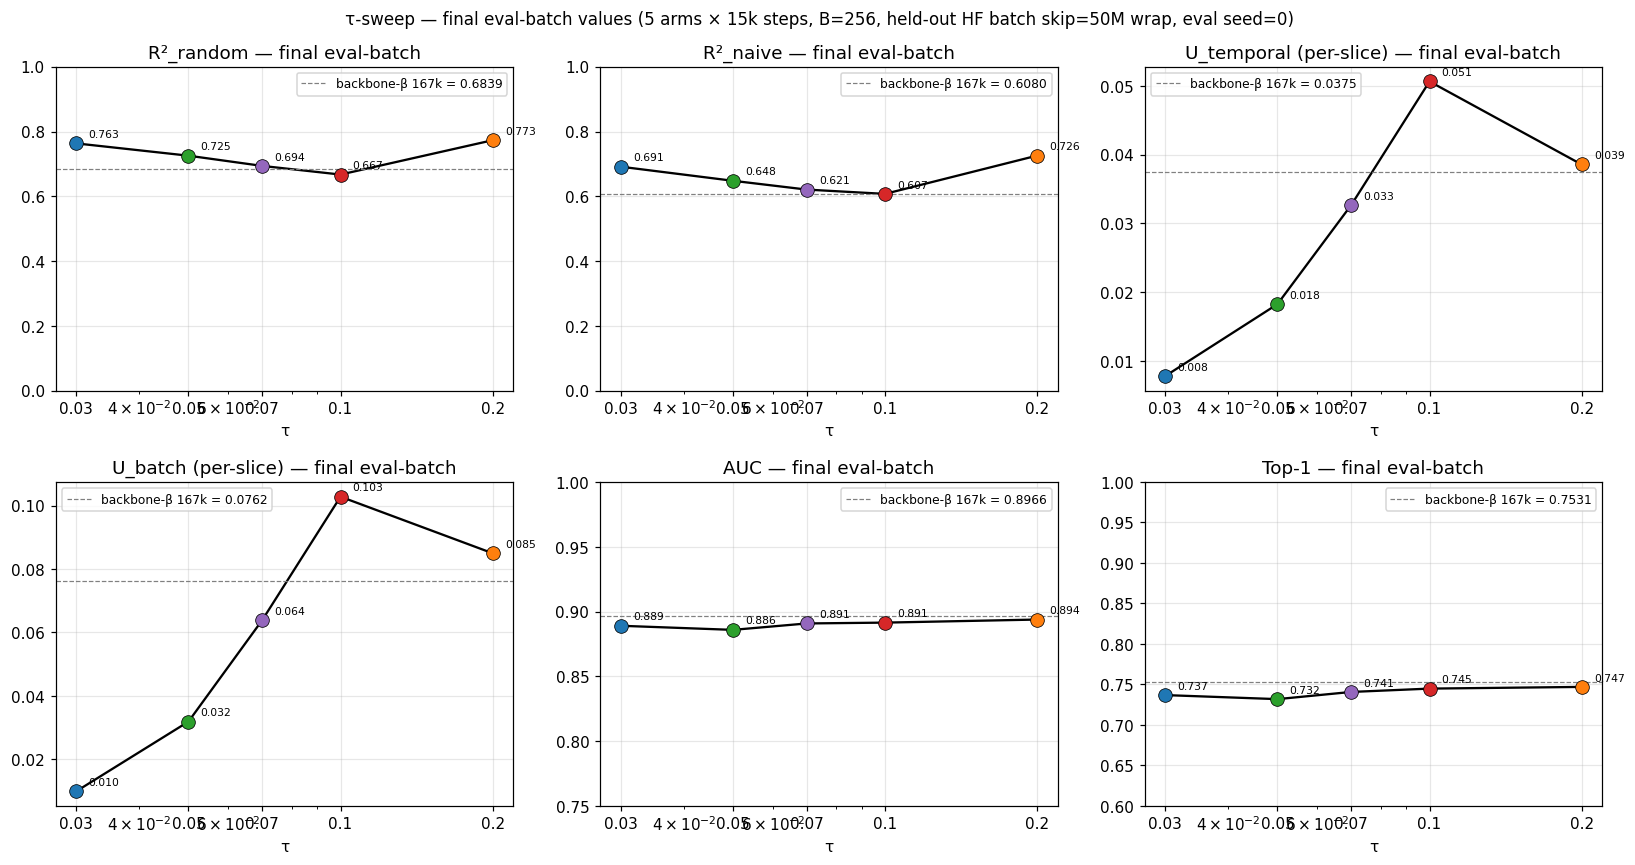
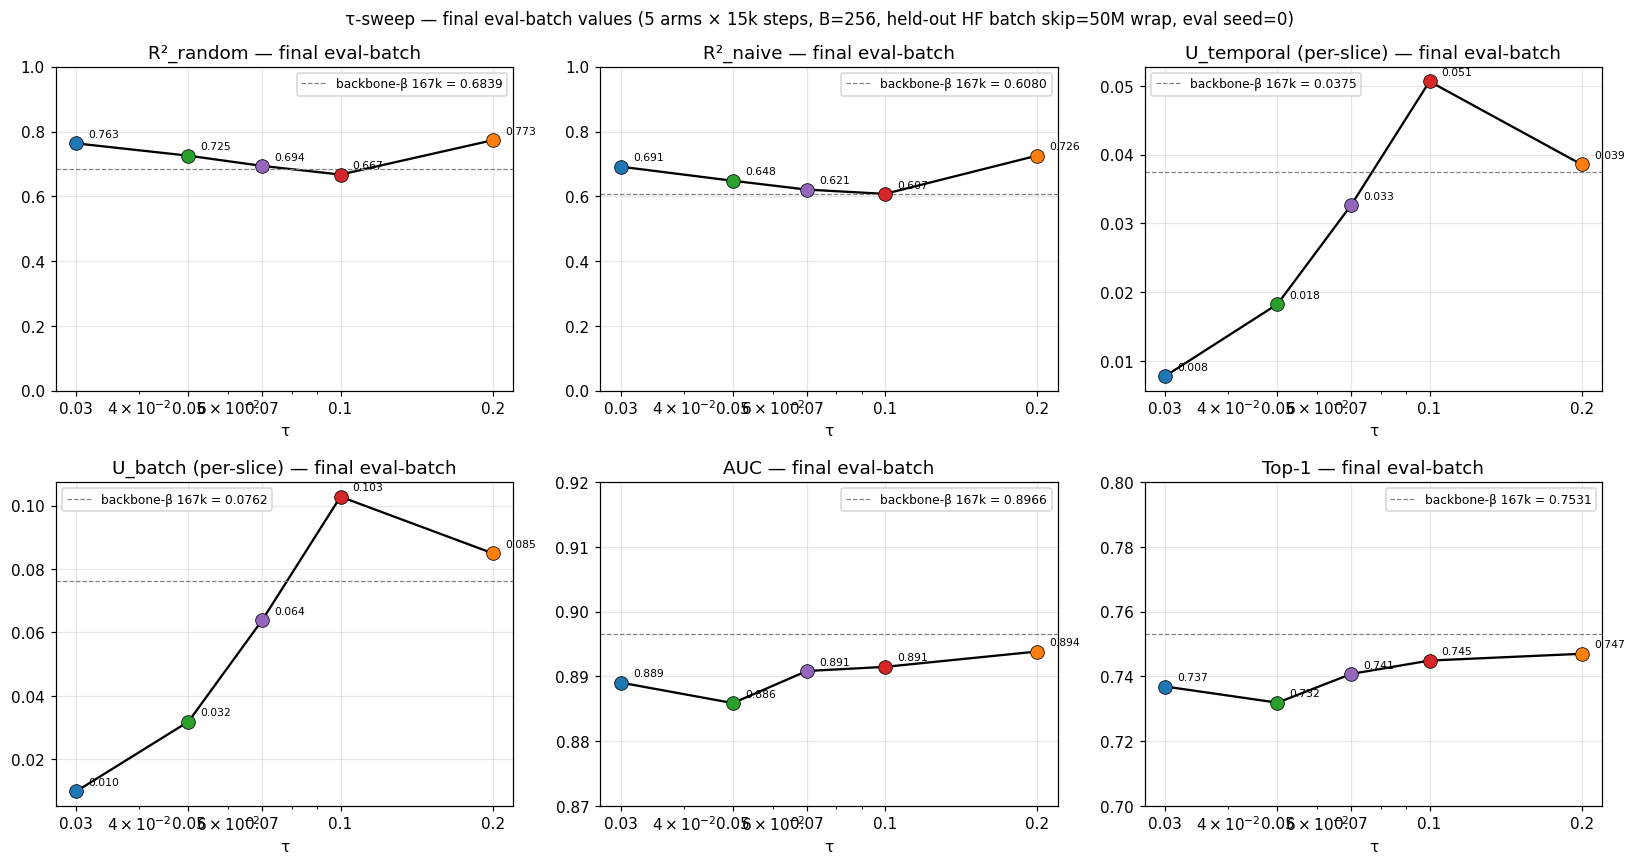
plot(tau-sweep): zoom AUC ylim 0.87-0.92, Top-1 0.70-0.80
The 0.75-1.0 / 0.6-1.0 windows compressed the inter-arm spread to a
visually invisible band. Zoom matches the actual range measured
(AUC range 0.0079, Top-1 range 0.0151).

Changed region(s): [[0.3743, 0.6867, 0.7174, 0.8116], [0.655, 0.7491, 0.9982, 0.8116], [0.655, 0.6243, 0.7174, 0.6555]]

diff --git a/experiments/2026-05-08_exp_tau_sweep/scripts/plot_tau_sweep_comparison.py b/experiments/2026-05-08_exp_tau_sweep/scripts/plot_tau_sweep_comparison.py
@@ -80,8 +80,8 @@ def main():
         ("r2_naive",  "R²_naive",  (0.0, 1.0), BETA["r2_naive"]),
         ("u_temporal", "U_temporal (per-slice)", None, BETA["u_temporal"]),
         ("u_batch",   "U_batch (per-slice)",     None, BETA["u_batch"]),
-        ("auc",       "AUC",       (0.75, 1.0),  BETA["auc"]),
-        ("top1",      "Top-1",     (0.6, 1.0),   BETA["top1"]),
+        ("auc",       "AUC",       (0.87, 0.92),  BETA["auc"]),
+        ("top1",      "Top-1",     (0.70, 0.80),  BETA["top1"]),
     ]
 
     fig, axs = plt.subplots(2, 3, figsize=(15, 8))
